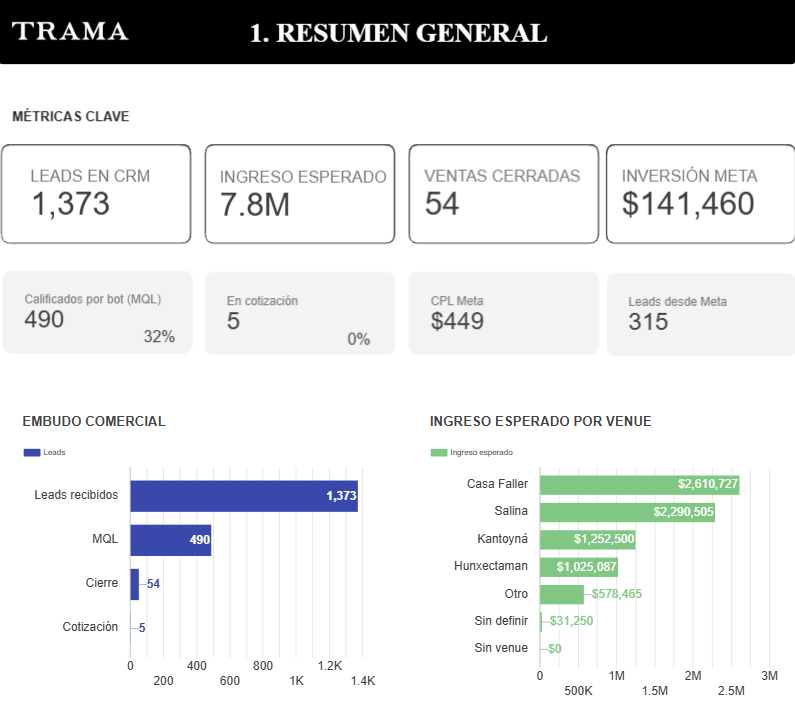
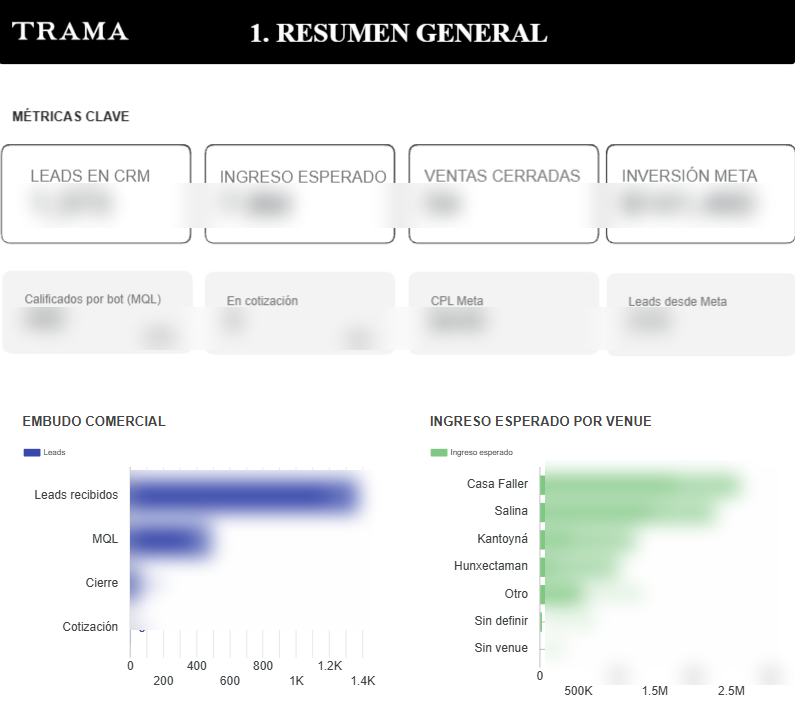
Difumina cifras reales y nombres/teléfonos personales en capturas de evidencia
Blur (horneado en el PNG, no CSS) aplicado a: cifras financieras/KPI en
Rinconada, Samas, Trama, Casa del Herrero y Pronatura; tabla completa de
desempeño por asesor (nombres + montos) en Casa del Herrero; y solo los
nombres de leads/contactos en Séneca (teléfonos, fechas y mensajes se
dejan visibles). Salama no se toca por ser datos de referencia, no reales.

Documenta el criterio en README para futuras capturas de evidencia.

diff --git a/README.md b/README.md
@@ -117,6 +117,16 @@ infinito, así que cada tarjeta va **una sola vez**). Al agregar uno:
    cliente real. Va en `.pcard__media` con `object-fit: cover;
    object-position: center top` (deja pasar cualquier proporción/tamaño, se
    recorta mostrando la parte de arriba).
+   - **Antes de guardarla, revisa si expone cifras reales (ingresos, montos,
+     KPIs) o datos personales de terceros (nombres, teléfonos de leads o
+     empleados)** y difumínalos directamente en el PNG (no con CSS — un
+     `filter: blur()` es solo cosmético, el archivo original seguiría
+     teniendo el dato real). Usa `PIL.ImageFilter.GaussianBlur` sobre la
+     región exacta (recórtala, aplícale blur, pégala de vuelta), con el
+     mismo patrón de respaldo/verificación que para los logos. Antes de
+     sobrescribir el archivo real, guarda una copia de prueba en un
+     directorio aparte y revísala visualmente — las coordenadas de texto en
+     un dashboard casi nunca son las que uno espera a primera vista.
 3. **HTML** — estructura de cada `.pcard`:
    ```html
    <article class="pcard">
